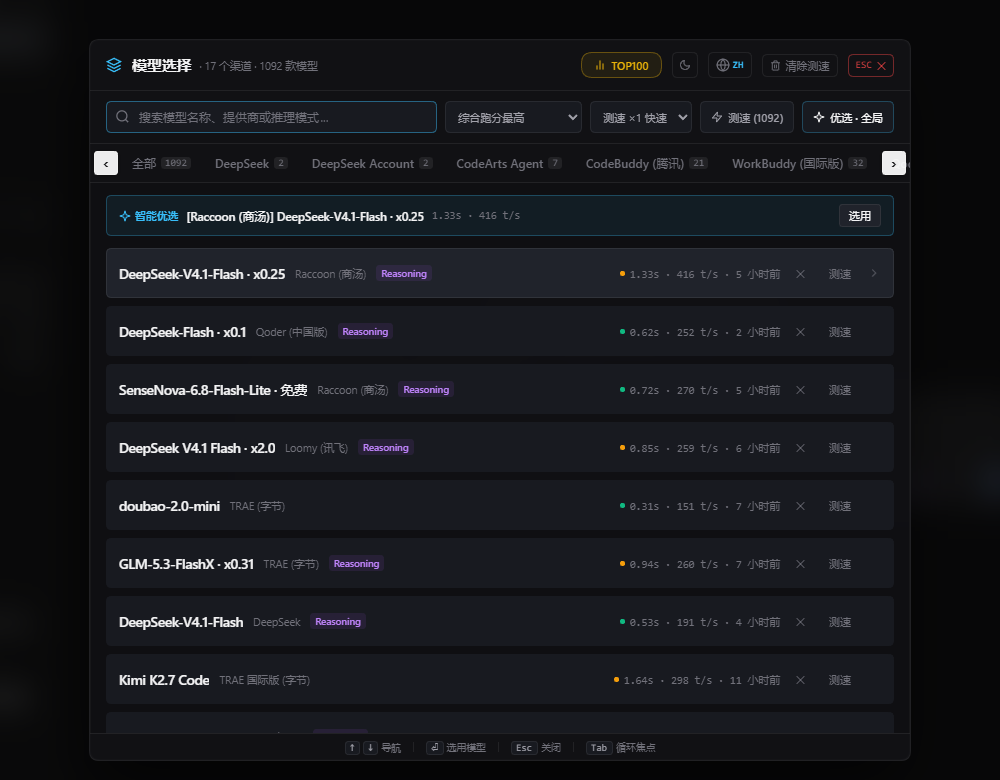
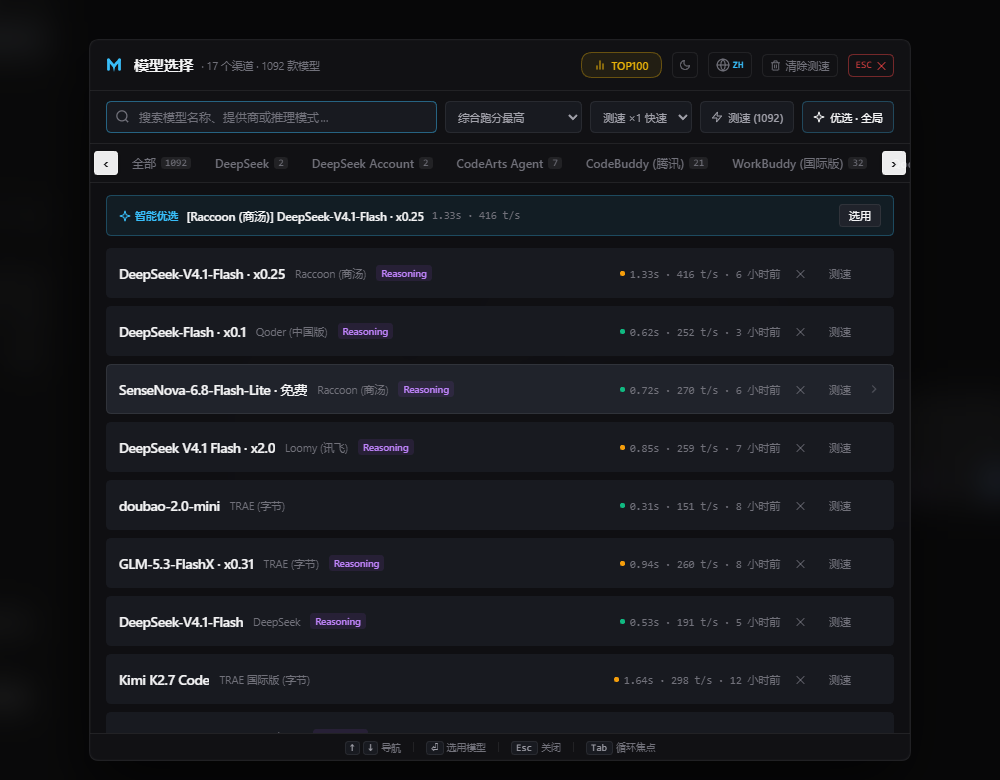
fix(ui): draw the panel header from the new mark
The header icon was a hardcoded stacked-layers path, so it still showed the
old brand while icon.svg had already been redesigned — the panel and the
storefront tile disagreed.

Now draws the same mark as icon.svg inline: four strokes reading as M with
the central V carried down as a selection arrow. The viewBox is cropped to
`30 36 120 122` so the glyph fills its 16px box instead of floating in dead
space, and a 2px gap keeps it off the title.

Regenerates screenshot-1 so the published screenshot matches the tile.

Changed region(s): [[0.093, 0.0615, 0.31, 0.0923]]

diff --git a/client.js b/client.js
@@ -2412,6 +2412,7 @@ window.__ModuleLoader__.load({
       .dmm-header-icon {
         width: 16px;
         height: 16px;
+        margin-right: 2px;
         color: var(--dmm-accent);
         flex-shrink: 0;
       }
@@ -3977,12 +3978,26 @@ window.__ModuleLoader__.load({
                     className: 'dmm-header-icon',
                     width: 18,
                     height: 18,
-                    viewBox: '0 0 24 24',
-                    fill: 'none',
-                    stroke: 'currentColor',
-                    strokeWidth: 2
+                    viewBox: '30 36 120 122',
+                    fill: 'none'
                   },
-                  h('path', { d: 'M12 2L2 7l10 5 10-5-10-5zM2 17l10 5 10-5M2 12l10 5 10-5' })
+                  // Same mark as icon.svg: four strokes reading as M, with the
+                  // central V carried down past the baseline as a selection
+                  // arrow. Kept inline so the header needs no extra request.
+                  h(
+                    'g',
+                    {
+                      stroke: 'currentColor',
+                      strokeWidth: 21,
+                      strokeLinecap: 'round',
+                      fill: 'none'
+                    },
+                    h('path', { d: 'M48 130 V58' }),
+                    h('path', { d: 'M48 58 L90 106' }),
+                    h('path', { d: 'M90 106 L132 58' }),
+                    h('path', { d: 'M132 58 V130' })
+                  ),
+                  h('path', { d: 'M79 100 L90 150 L101 100 Z', fill: 'currentColor' })
                 ),
                 h(
                   'div',
